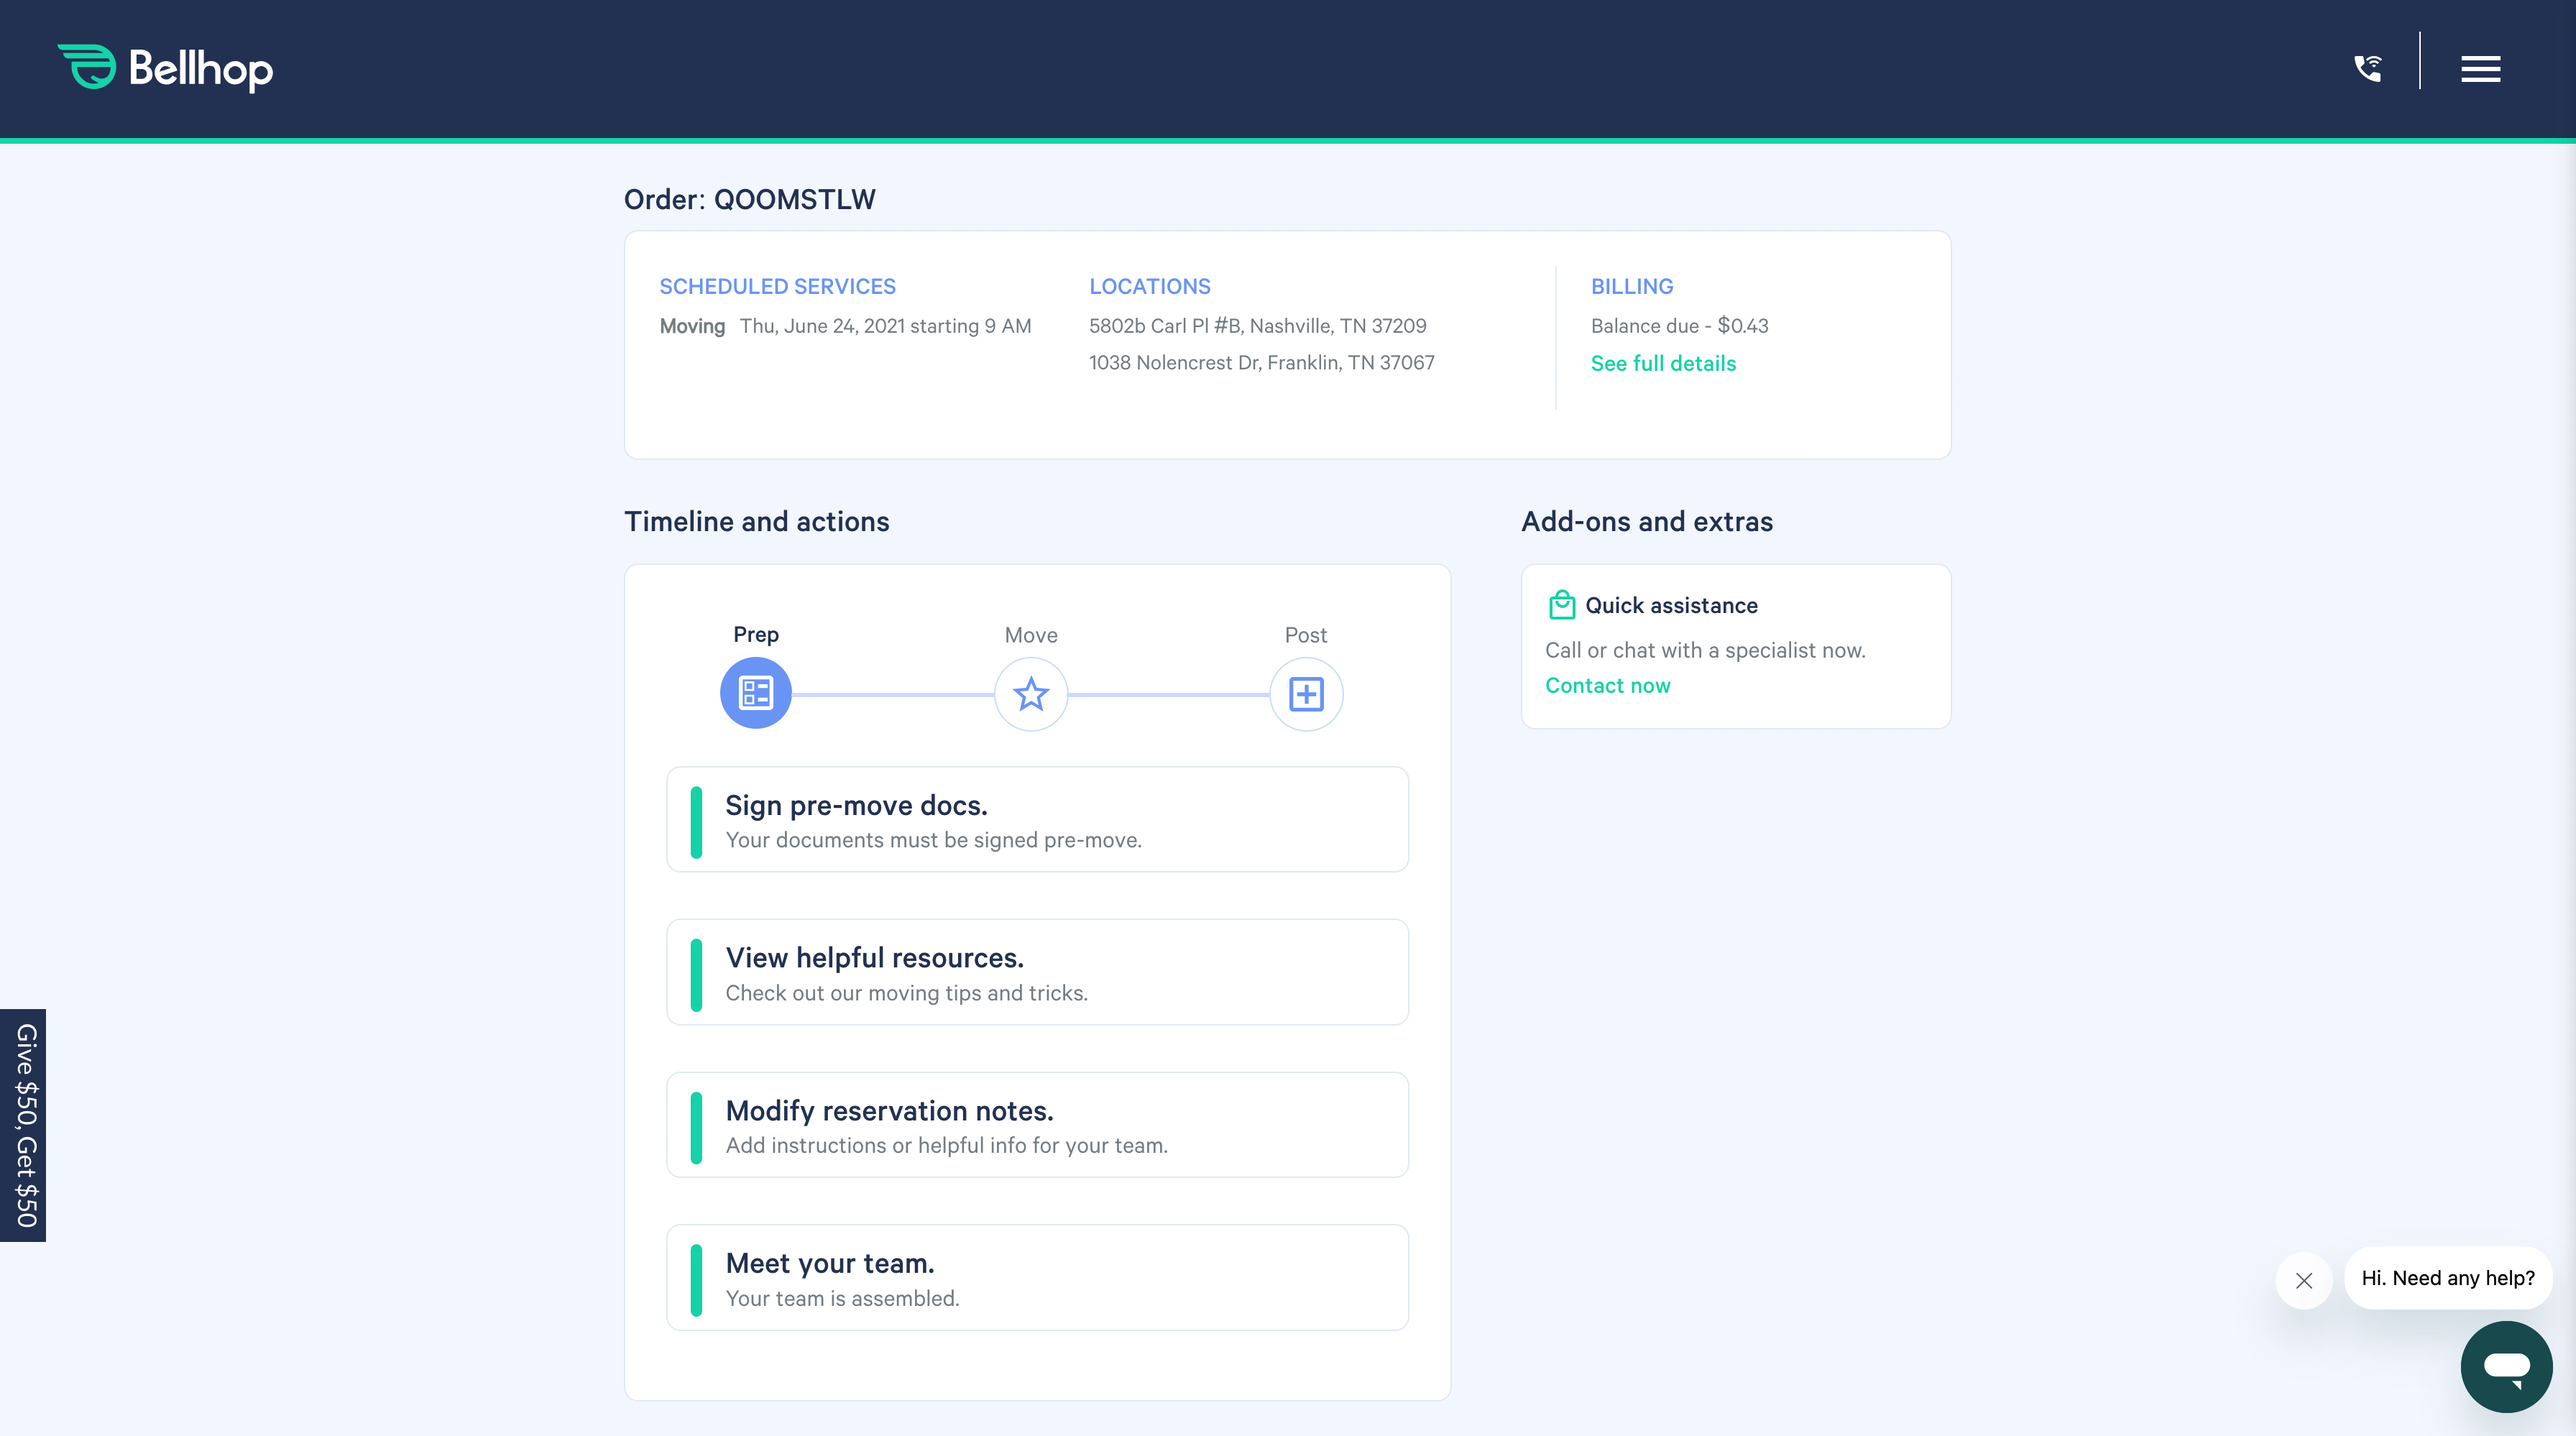
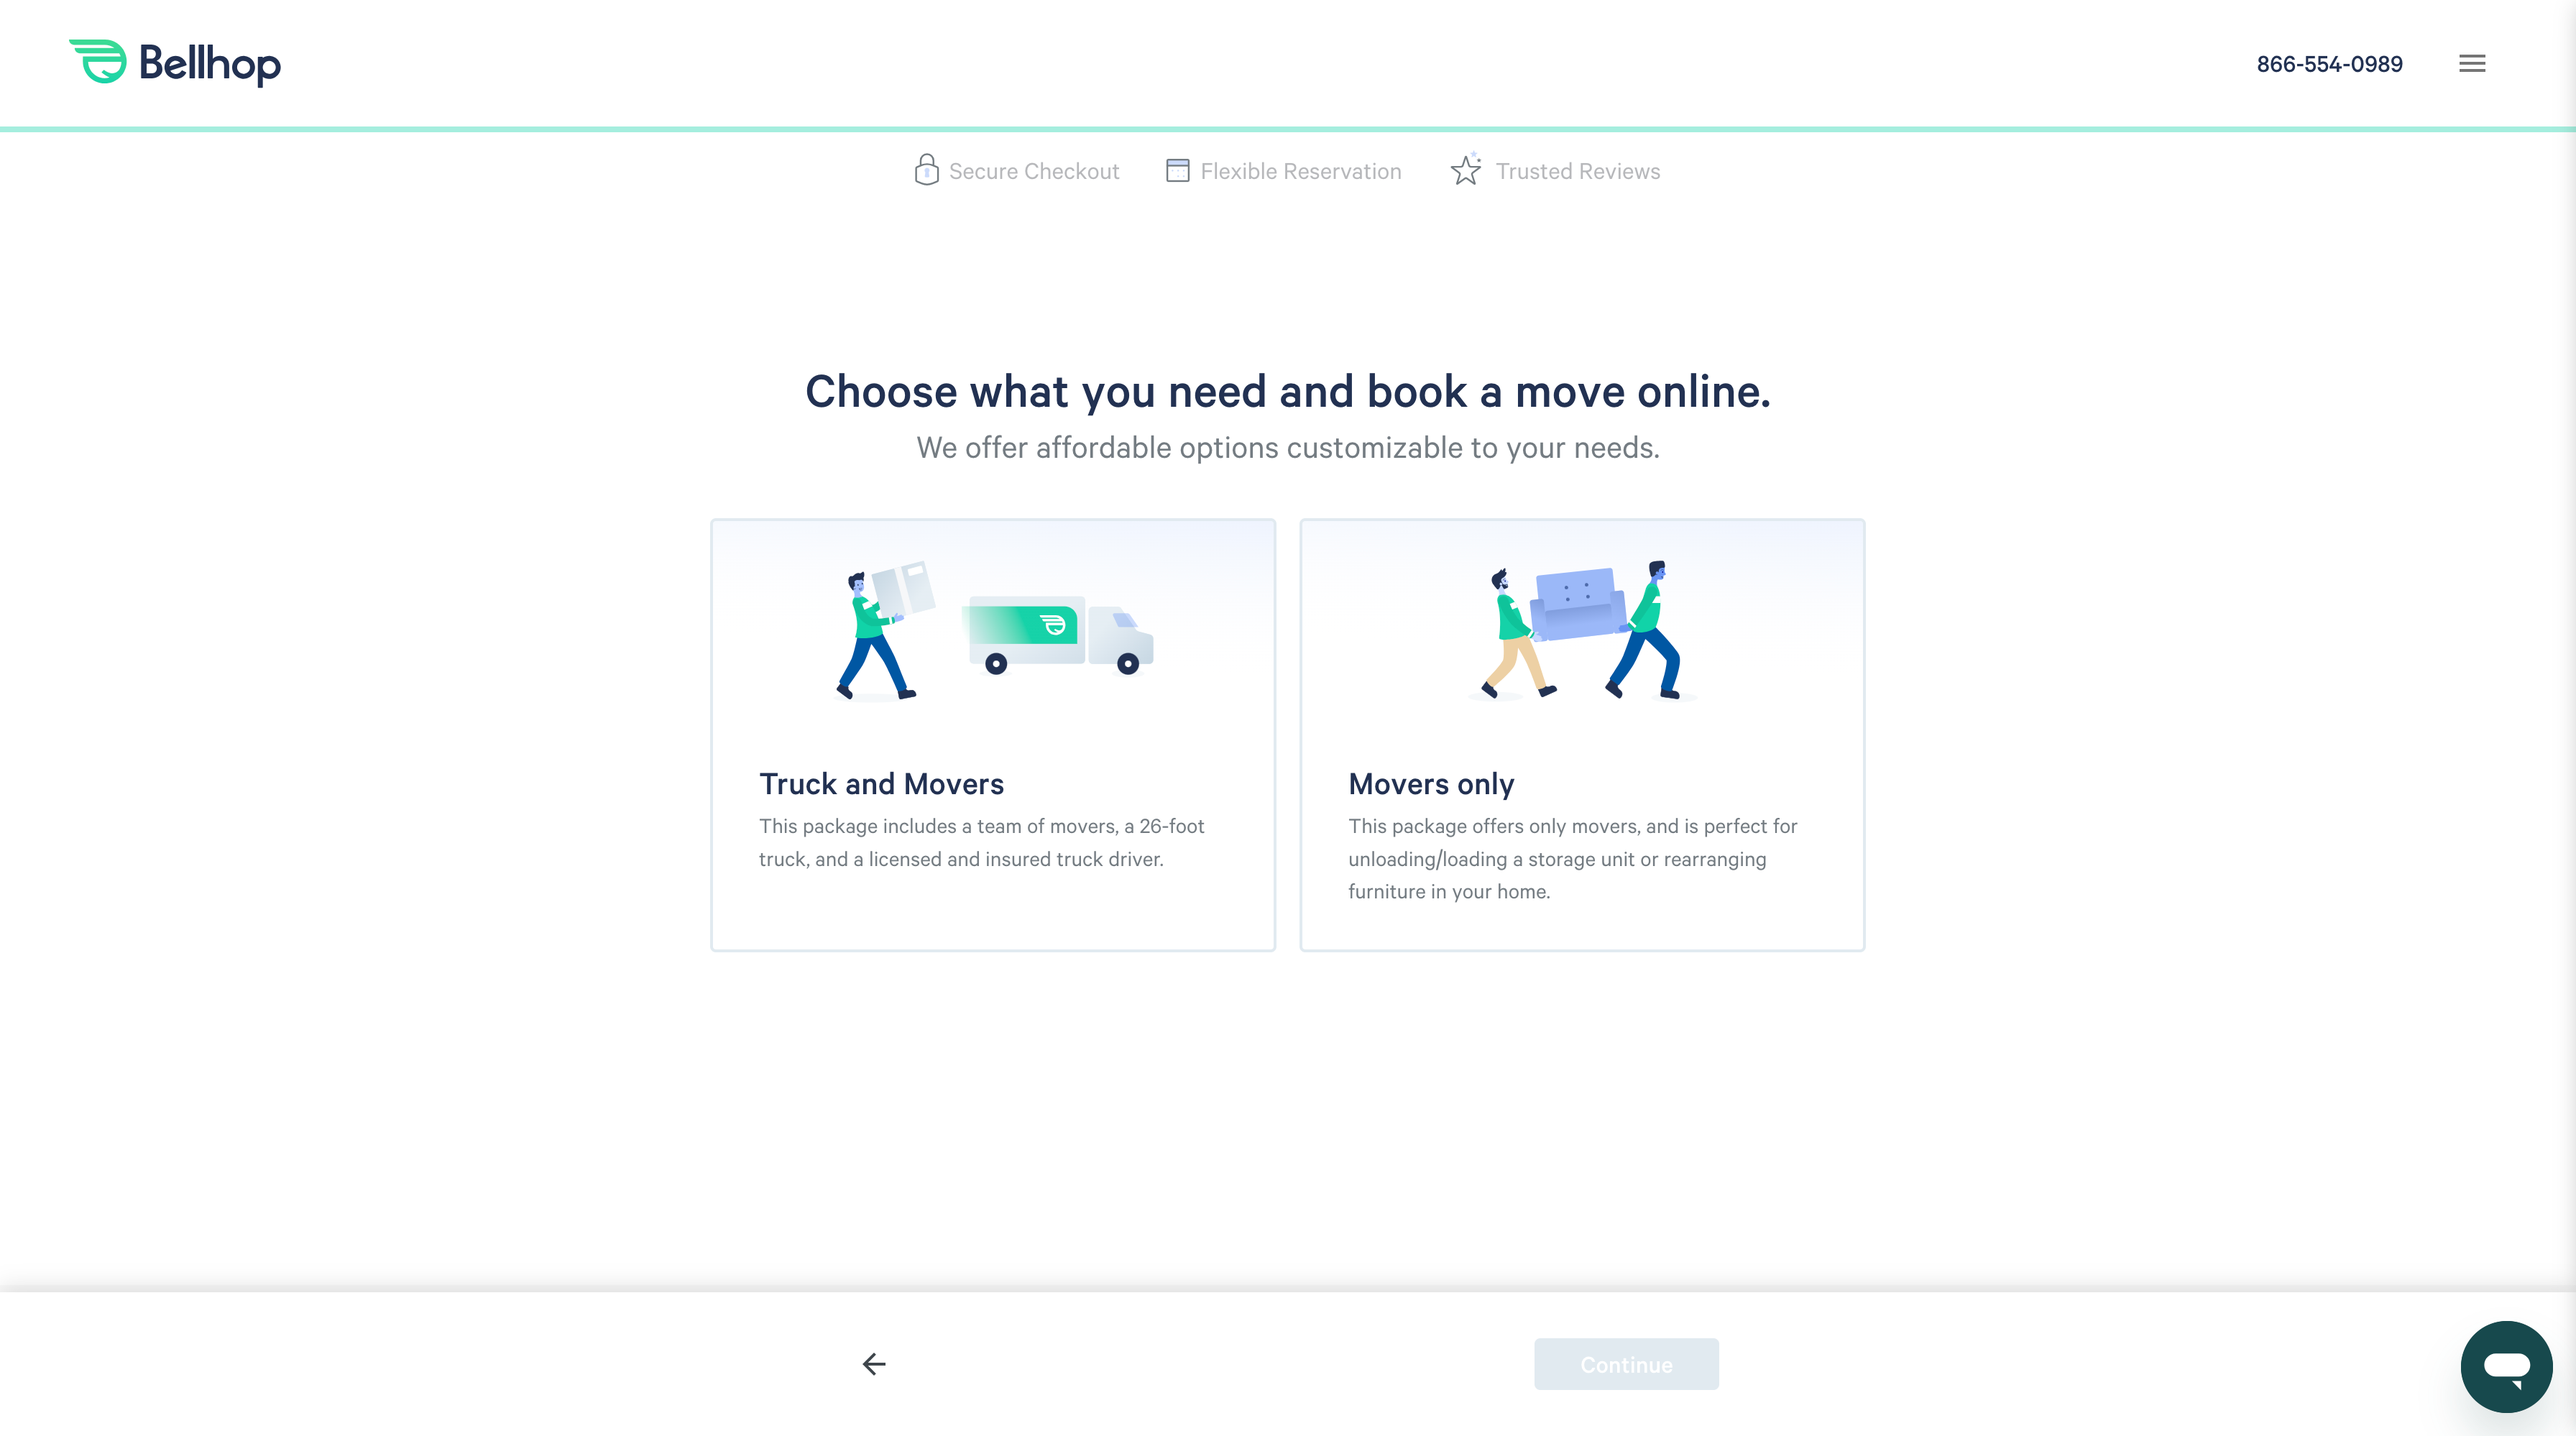
feat: update bellhop project images

diff --git a/pages/projects/[id].js b/pages/projects/[id].js
@@ -20,6 +20,8 @@ const Projects = () => {
       }))
     : [];
 
+  console.log("images", images);
+
   return (
     <Layout pageTitle="Michael Dye" siteTitle="Frontend Engineer">
       <Container>
